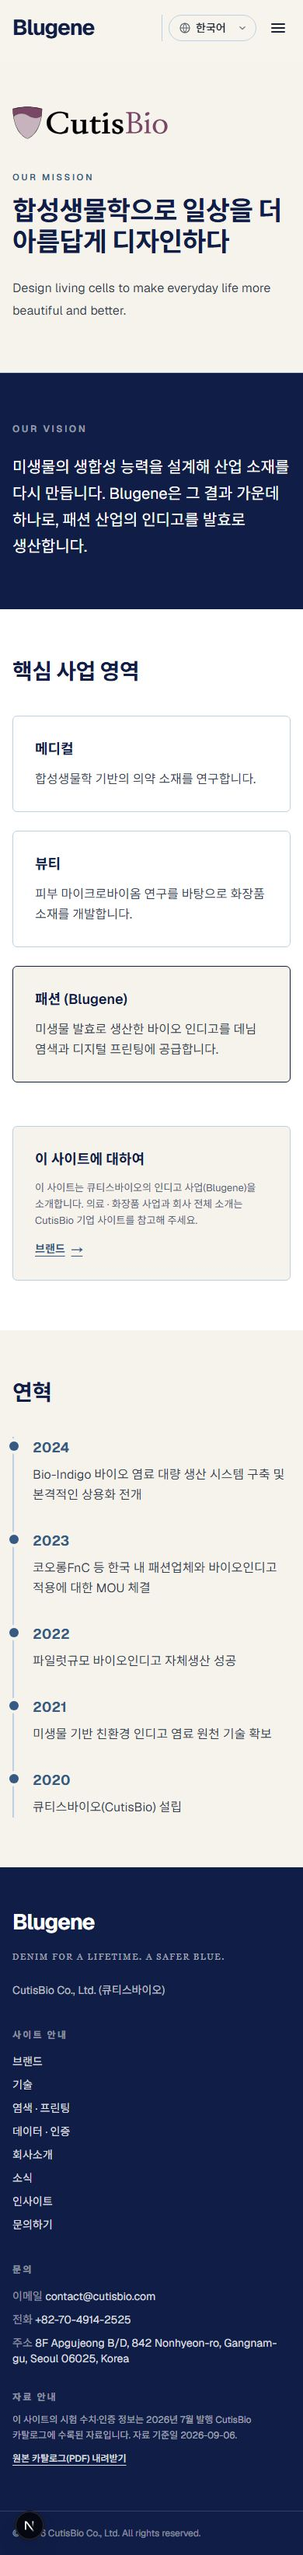
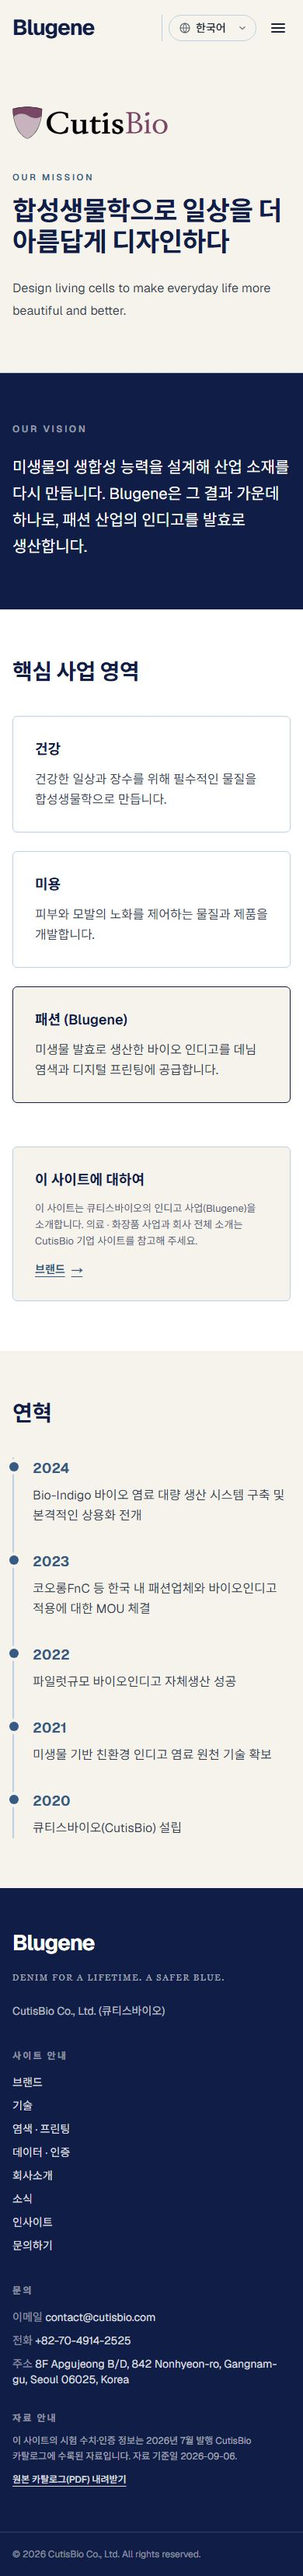
feat(about): 핵심 사업 영역을 건강 · 미용 · 패션으로 고쳐 쓴다
카드 이름과 설명을 고객이 준 문안으로 바꾼다. 패션 카드는 손대지 않는다.

- 메디컬 → 건강: "건강한 일상과 장수를 위해 필수적인 물질을 합성생물학으로 만듭니다."
- 뷰티 → 미용: "피부와 모발의 노화를 제어하는 물질과 제품을 개발합니다."
- 이름이 '메디컬'이 아니게 됐으므로 메시지 키도 `About.medicalTitle/Text` →
  `About.healthTitle/Text` 로 바꿨다. 6개 언어 · 번역 상태 파일 · about/page.tsx 를
  함께 옮겨 옛 키가 남지 않는다(로케일별 키 394개가 전부 일치).

번역은 바뀐 4개 문구만 OpenAI 로 돌렸다(입력 6,252 · 출력 284 토큰). 패션 카드는
한국어가 그대로라 건드리지 않았다.

용어집에 `장수` · `노화` · `모발` 을 넣고 규칙을 하나 더 걸었다. `노화를 제어하는` 은
관리 · 조절이지 `막는다 · 늦춘다 · 되돌린다 · anti-aging` 이 아니고, `장수` 는 분야를
가리키는 말이지 수명 연장 약속이 아니며, `필수적인` 은 `필수영양소(essential
nutrient)` 같은 규제 용어가 아니다 — 6개 언어 번역까지 이 해석으로 잠긴다.

검토: 에이전트 9개로 한국어 문안의 표시광고법 · 화장품법 · 건강기능식품법 위험,
언어별 번역, 키 개명 누락을 각각 보고 지적은 반증 에이전트로 걸렀다. 한국어 문안과
키 개명은 문제 없음. 번역 다듬기 6건 반영 —
  en/tr: `일상` 이 빠져 같은 파일의 title · missionText 표기와 어긋나던 것을 되살림
  ja: `作ります` → `つくります` (이 파일은 つくる 23회 대 作る 3회)
  zh: `管理` → `调控` (管理는 사람 · 조직을 관리할 때 쓴다), 형제 카드에 맞춰 `和` → `与`
  tr: `yönetmeye yönelik` → `yöneten` (원문의 관형절과 같은 세기로)
ja 의 `管理する` → `制御する` 제안은 기각했다. 용어집이 제어를 관리 · 조절로 못박았고,
`老化制御` 는 학술 분야명이라 제품 문맥에 붙으면 오히려 효능 뉘앙스가 생긴다.

검증: typecheck · lint · check:blugene · build(66면) 통과. 6개 언어 빌드 결과물에서
새 문구 확인. 캡처 2장 갱신.

diff --git a/src/app/[locale]/about/page.tsx b/src/app/[locale]/about/page.tsx
@@ -37,7 +37,7 @@ export default async function AboutPage({ params }: { params: Promise<{ locale: 
   const orgSchema = buildOrganizationSchema(BRAND.company, SITE_URL, `${SITE_URL}/brand/cutisbio-logo.png`);
 
   const areas = [
-    { title: t('medicalTitle'), text: t('medicalText'), highlight: false },
+    { title: t('healthTitle'), text: t('healthText'), highlight: false },
     { title: t('beautyTitle'), text: t('beautyText'), highlight: false },
     { title: t('fashionTitle'), text: t('fashionText'), highlight: true },
   ];
